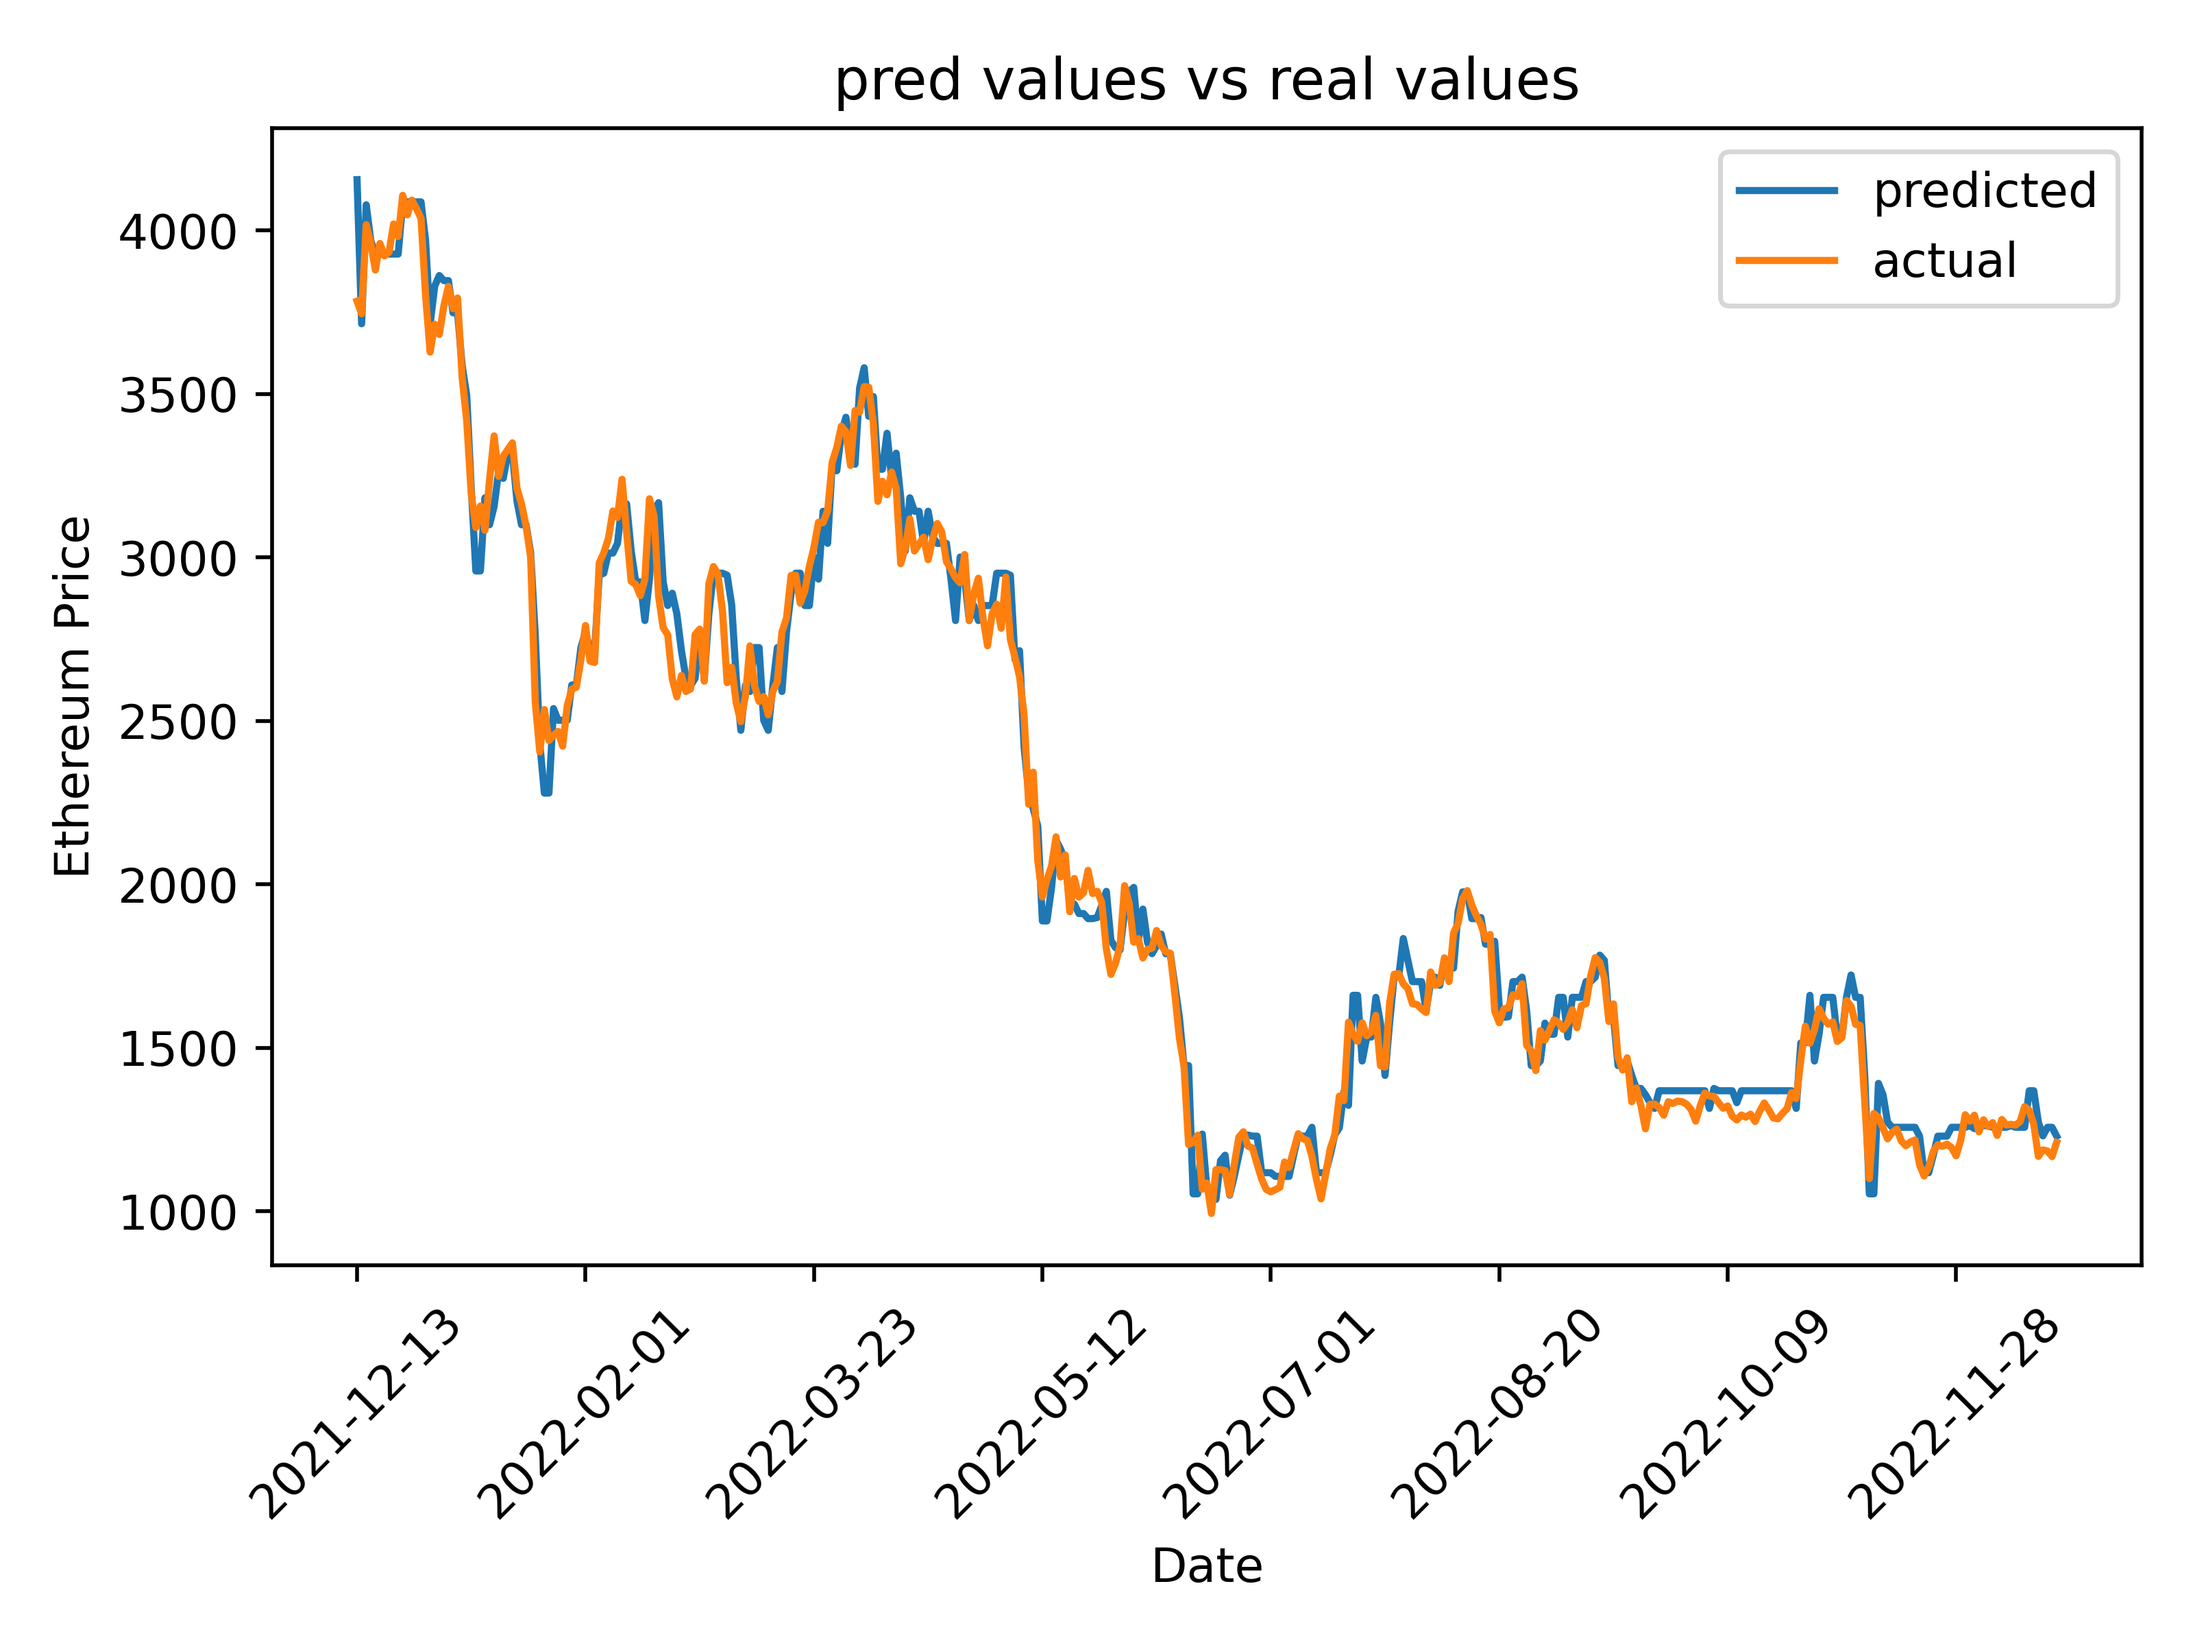
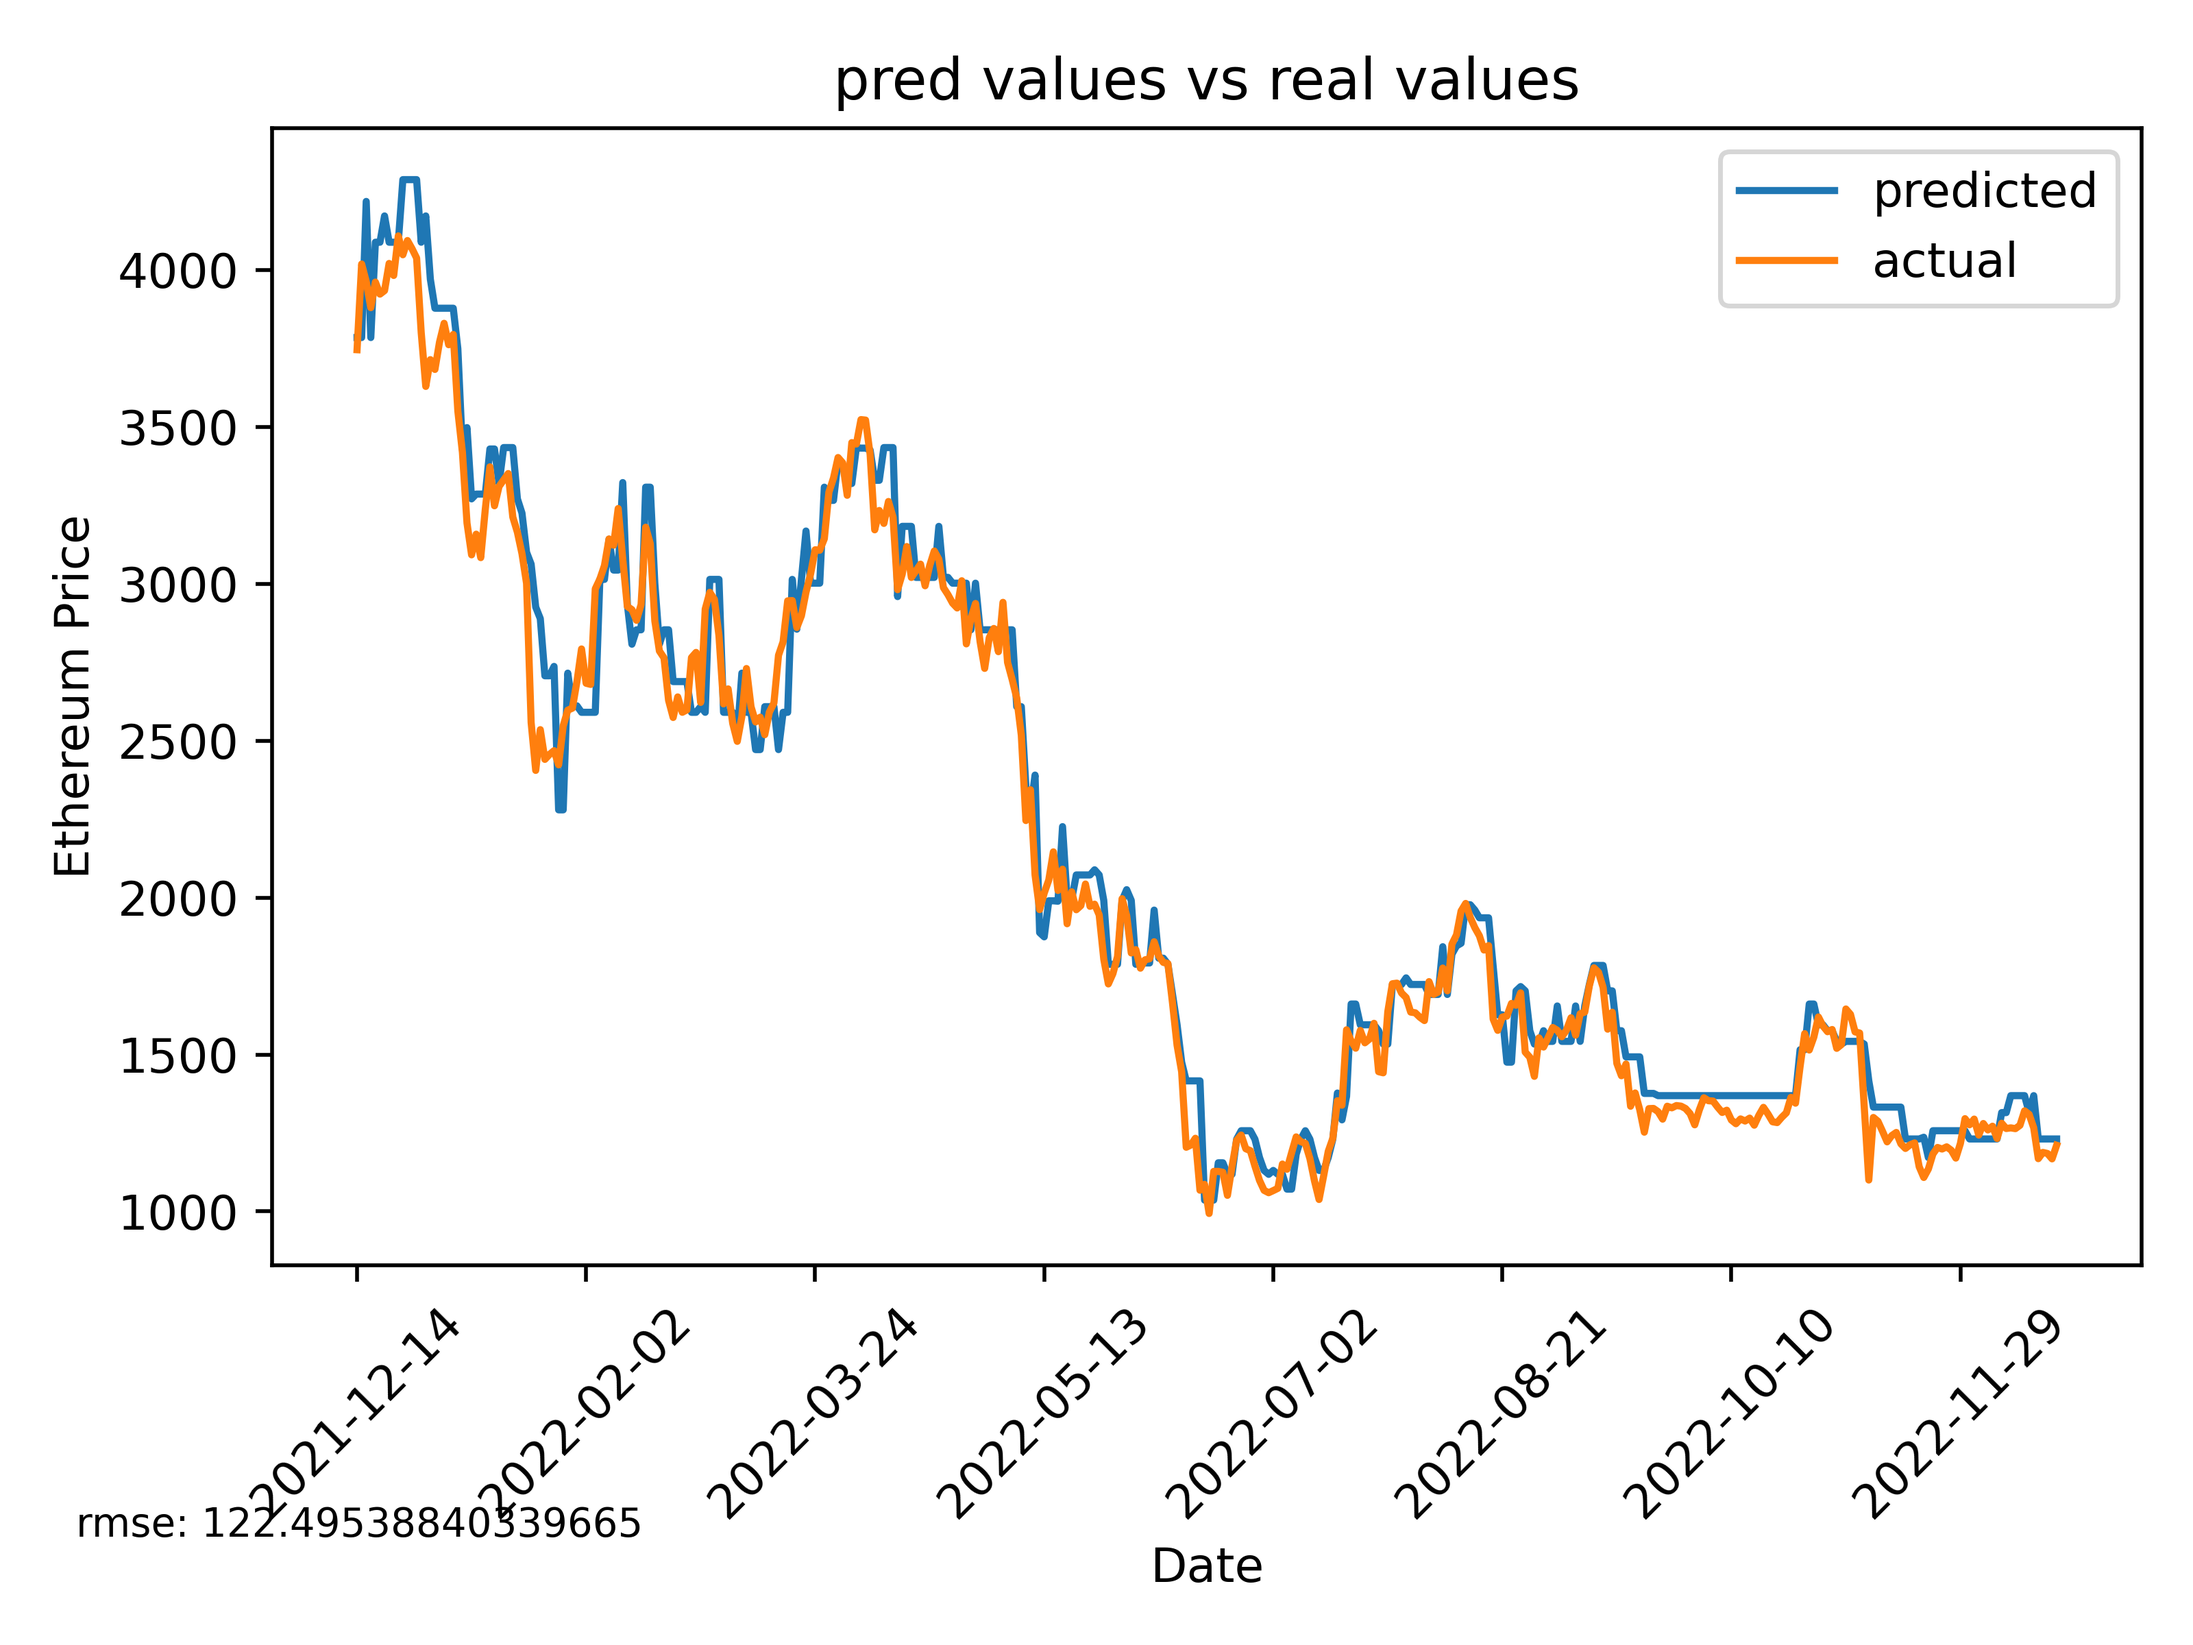
logistic regression needs work

diff --git a/logistic_regression.py b/logistic_regression.py
@@ -12,30 +12,69 @@ from sklearn.metrics import mean_squared_error, r2_score, mean_absolute_error
 import tech_indicators
 import argparse
 import math
+from hyperopt import hp, fmin, tpe, STATUS_OK, Trials, anneal
 
-# def create_parameter_space(lowest_knn=5):
-#     parameter_space = {'penalty': hp.choice('n_neighbors', range(lowest_knn, 70)),
-#                        'weights': hp.choice('weights', ['distance']),
-#                        'algorithm': hp.choice('algorithm', ['brute', 'ball_tree', 'kd_tree']),
-#                        'leaf_size': hp.choice('leaf_size', range(1, 100)),
-#                        'p': hp.choice('p', [1, 2]),
-#                        'metric': hp.choice('metric', ['minkowski', 'chebyshev']),
-#                        }
-#     return parameter_space
+tol = [0.00001, 0.0001, 0.001, 0.01, 0.1]
+# , 'l1', 'elasticnet'
+# penalty = [None, 'l2']
+c_values = [1, 2, 3, 4, 5, 6, 7]
+solver = ['newton-cholesky']
 #
-#
-# best = math.inf
-#
-#
-# def f(params):
-#     global best
-#     acc = accuracy_model(params)
-#     if acc < best:
-#         best = acc
-#     return {'loss': acc, 'status': STATUS_OK}
+#     ‘newton-cg’ - [‘l2’, None]
+#     ‘newton-cholesky’ - [‘l2’, None]
+#     ‘lbfgs’ - [‘l2’, None]
+#     ‘liblinear’ - [‘l1’, ‘l2’]
+#     ‘sag’ - [‘l2’, None]
+#     ‘saga’ - [‘elasticnet’, ‘l1’, ‘l2’, None]
+def create_parameter_space():
+    # , 'l1', 'elasticnet'
+    parameter_space = {'solver': hp.choice('solver', solver),
+                       'tol': hp.choice('tol', tol),
+                       'C': hp.choice('C', c_values),
+                       }
+    return parameter_space
 
-def train_and_predict(xtrain, xtest, ytrain, ytest):
-    model = LogisticRegression()
+best = math.inf
+# Finding out which set of hyperparameters give highest accuracy
+def find_best_parameters(parameter_space):
+    trials = Trials()
+    best_parameters = fmin(fn=f,
+                       space=parameter_space,
+                       algo=tpe.suggest,  # the logic which chooses next parameter to try
+                       max_evals=100,
+                       trials=trials
+                       )
+    for k, v in best_parameters.items():
+        if k == 'tol':
+            best_parameters[k] = tol[v]
+        elif k == 'C':
+            best_parameters[k] = c_values[v]
+        elif k == 'solver':
+            best_parameters[k] = solver[v]
+        # elif k == 'penalty':
+        #     best_parameters[k] = penalty[v]
+
+    # best_params['penalty'] = 'l2'
+    print('best: ', best, 'with best params :', best_parameters)
+    return best_parameters
+
+
+def accuracy_model(params):
+    knn = LogisticRegression(**params)
+    knn.fit(X_train, Y_train['Close'])
+    y_pred = knn.predict(X_test)
+    return mean_squared_error(Y_test['Close'], y_pred, squared=False)
+
+def f(params):
+    global best
+    acc = accuracy_model(params)
+    if acc < best:
+        best = acc
+    return {'loss': acc, 'status': STATUS_OK}
+
+def train_and_predict(xtrain, xtest, ytrain, ytest, params=None):
+
+    model = LogisticRegression(C=1, solver='newton-cg', tol=1e-8)
 
     model.fit(xtrain, ytrain['Close'])
     y_pred = model.predict(xtest)
@@ -65,9 +104,8 @@ def generate_plots(y_pred, Y_test, rmse, name, length_of_moving_averages=10):
 
 def build_args():
     parser = argparse.ArgumentParser()
-    parser.add_argument('--lowest_knn_neighbor', help='we need to separate search and knn', type=int)
     parser.add_argument('--length', help='the length for moving averages', type=int, default=10)
-    parser.add_argument('--name', help='the name of the file', type=str)
+    parser.add_argument('--name', help='the name of the file', type=str, required=True)
     return parser.parse_args()
 
 if __name__ == "__main__":
@@ -82,6 +120,8 @@ if __name__ == "__main__":
     X = pd.concat(normalized_indicators, axis=1)
     Y = df_close[['Close']][args.length-1:]
     X_train, X_test, Y_train, Y_test, = train_test_split(X, Y, shuffle=False, test_size=0.20)
+    parameter_space = create_parameter_space()
+    # best_params = find_best_parameters(parameter_space)
     y_pred, rmse = train_and_predict(X_train, X_test, Y_train, Y_test)
     ticker_name = 'Ethereum'
     generate_plots(y_pred, Y_test, rmse, ticker_name, length_of_moving_averages=args.length)

diff --git a/knn.py b/knn.py
@@ -125,10 +125,10 @@ if __name__ == "__main__":
     X = pd.concat(normalized_indicators, axis=1)
 
     Y = df_close[['Close']][args.length-1:]
-
+    lowest_knn_neighbor = args.lowest_knn_neighbor if args.lowest_knn_neighbor else 5
     X_train, X_test, Y_train, Y_test = train_test_split(X, Y, shuffle=False, test_size=0.20)
-    parameter_space = create_parameter_space(lowest_knn=args.lowest_knn_neighbor)
-    best_parameters = find_best_parameters(parameter_space, lowest_knn_neighbor=args.lowest_knn_neighbor)
+    parameter_space = create_parameter_space(lowest_knn=lowest_knn_neighbor)
+    best_parameters = find_best_parameters(parameter_space, lowest_knn_neighbor=lowest_knn_neighbor)
     y_pred, rmse = train_and_predict(X_train, X_test, Y_train, Y_test, best_parameters)
     ticker_name = 'Ethereum'
     generate_plots(y_pred, Y_test, rmse, ticker_name, length_of_moving_averages=args.length)
